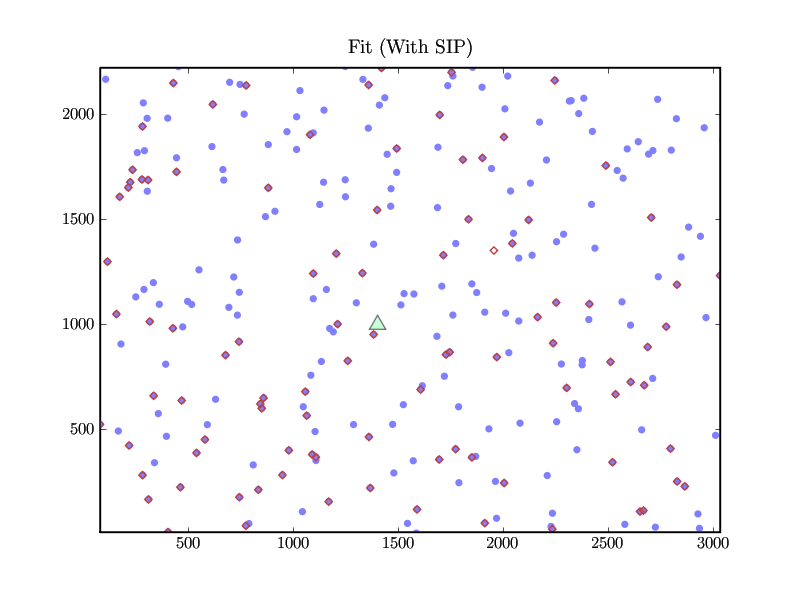
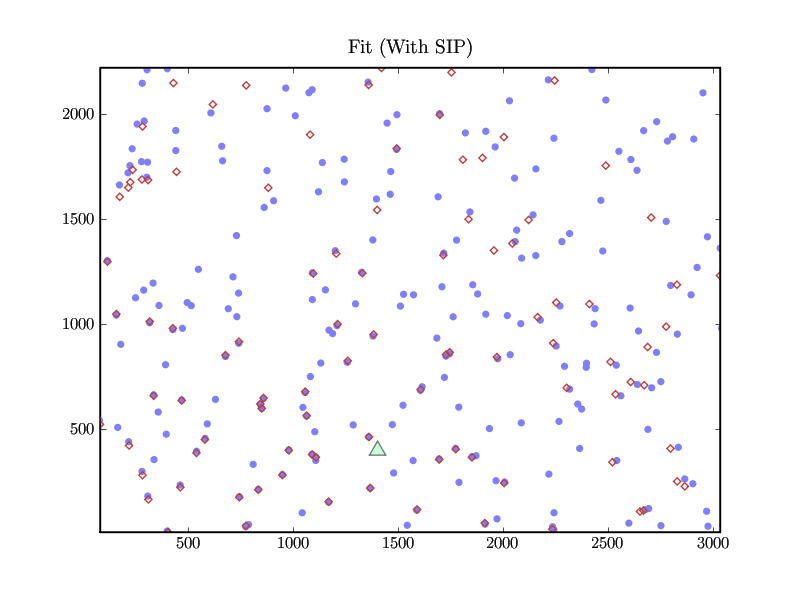
[Jon] pytweak junk, must investigate more

diff --git a/src/pytweak/tweak.py b/src/pytweak/tweak.py
@@ -19,8 +19,6 @@ def tweak(inputWCSFilename, catalogRDFilename, imageXYFilename,
 		title('Original Fit')
 		savefig('1-initial.png')
 
-	tweakImage(imageData, catalogData, WCS)
-
 	goal_crpix = [WCS.wcstan.imagew/2 + 0.5, WCS.wcstan.imageh/2 + 0.5]
 	#  We add the 0.5 to account for the pixel representation, where center = 1. Right?
 	
@@ -65,6 +63,7 @@ def tweak(inputWCSFilename, catalogRDFilename, imageXYFilename,
 		title('Fit (No SIP)')
 		savefig('2-after-SIP.png')
 	
+	# Here I should really resolve for only higher order warp, force affine to 0.
 	pushPoly2WCS(WCS)
 	
 	writeOutput(WCS, inputWCSFilename, outputWCSFilename, catalogXYFilename, catalogRDFilename, imageXYFilename, imageRDFilename, renderOutput)

diff --git a/src/pytweak/tweak_lib.py b/src/pytweak/tweak_lib.py
@@ -31,6 +31,11 @@ def loadData(imageXYFilename, catalogRDFilename, inputWCSFilename, warpDegree):
 	return (imageData, catalogData, WCS)
 	
 def fixCRPix(imageData, catalogData, WCS, goal_crpix):
+	tweakImage(imageData, catalogData, WCS)
+	
+	imageData['X'] = imageData['X_INITIAL']
+	imageData['Y'] = imageData['Y_INITIAL']
+	
 	startCRPix = array([WCS.wcstan.crpix[0], WCS.wcstan.crpix[1]])
 	(WCS.wcstan.crval[0], WCS.wcstan.crval[1]) = WCS.pixelxy2radec(goal_crpix[0], goal_crpix[1])
 	(WCS.wcstan.crpix[0], WCS.wcstan.crpix[1]) = (goal_crpix[0], goal_crpix[1])
